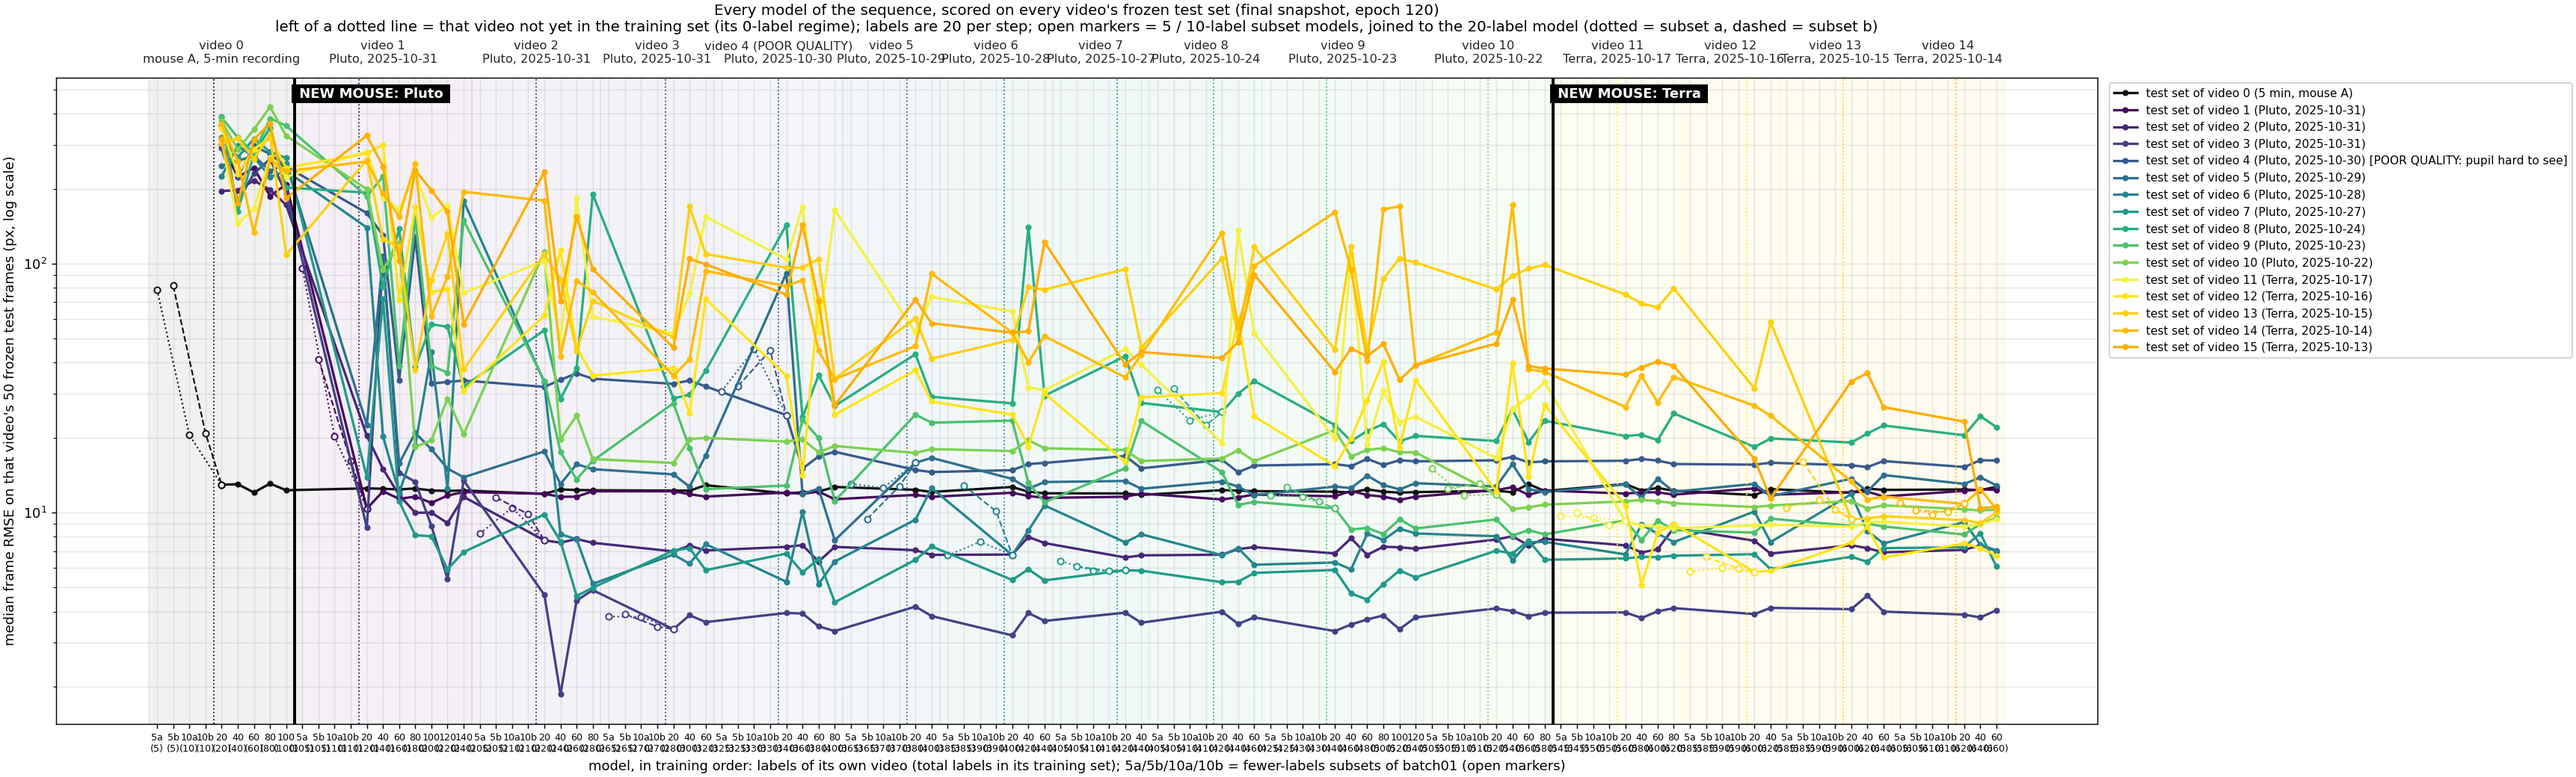
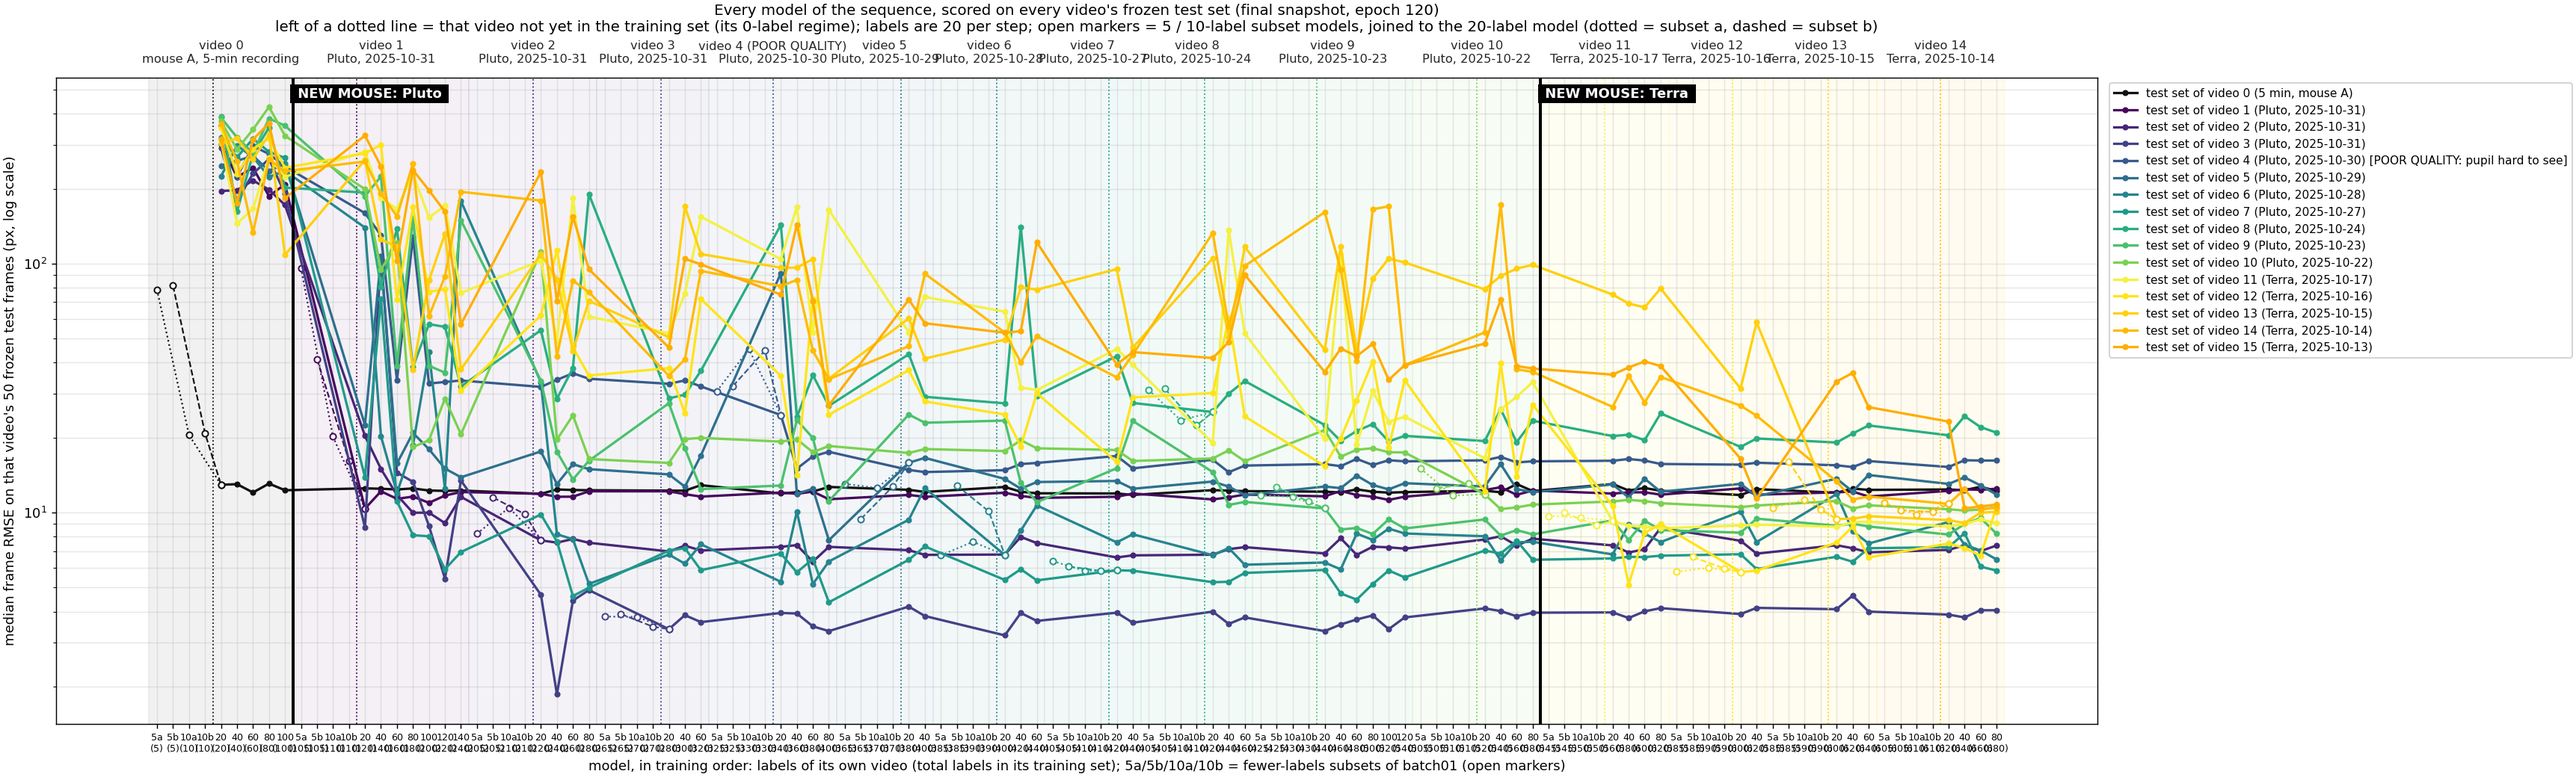
Video 14 step 4 selection recorded (10523 of 57158 flagged, batch 5 sheet); cross-eval of model 1514
Claude-Session: https://claude.ai/code/session_01HbY3eFuxfPQiRo7QFugpjw

diff --git a/README.md b/README.md
@@ -27,7 +27,7 @@ per-frame predictions stay local; git carries code, documentation and audited ag
 | Finished | **video 11** (Terra = mouse C, 2025-10-17, the first video of a new mouse): test50 / val20 / batch01 pre-labeled with the video-10 40-label model (1112) and corrected by the labeler (test50: 249 of 400 points moved), test set frozen; 0 labels (model 1112) = 25.96 px (p90 80.1, 16% of frames > 50 px), 20 labels = 9.24 px (p90 166.4, 20% of frames > 50 px), 40 labels = 8.86 px (p90 17.5, 4% of frames > 50 px, 94% of keypoints with confidence >= 0.6; 4.1% better on the median), 60 labels = 8.77 px (p90 12.9, 2% of frames > 50 px, 97% confidence; 1.0% better than 8.86, a flat step), 80 labels = 8.65 px (p90 13.1, 2% > 50 px, 98% confidence; 1.4% better, a second flat step): the plateau rule fired at 80, finished at **40 labels, 8.86 px** (user decision 2026-10-04). Training set of every step = 540 carried labels of videos 0-10 + this video's labels; shuffles 1211, 1212, ... |
 | Finished | **video 12** (Terra, 2025-10-16, second video of mouse C): test50 / val20 / batch01 pre-labeled with the video-11 40-label model (1212) and corrected by the labeler (test50: 110 of 400 points moved), test set frozen; 0 labels (model 1212) = 5.13 px, 20 labels = 5.77 px, 40 labels = 5.84 px (0% of frames > 50 px at every step): no step improves the 0-label number, the plateau rule fired at 40, finished with the plateau at **0 labels, 5.13 px** (user decision 2026-10-04 21:29); no labels carried |
 | Finished | **video 13** (Terra, 2025-10-15, third video of mouse C): test50 / val20 / batch01 pre-labeled with the video-11 40-label model (1212) and corrected by the labeler (test50: 287 of 400 points moved), test set frozen; 0 labels (model 1212) = 69.13 px (56% of frames > 50 px: the model that fitted video 12 does not fit this day), 20 labels = 9.43 px, 40 labels = 9.44 px, 60 labels = 9.67 px (0% of frames > 50 px from 20 labels on): no step improves on 20 labels, the plateau rule fired at 60; **plateau at 20 labels, 9.43 px** (user decision 2026-10-06), tag `v0.9.15-video13-plateau`; batch01 (20 labels) carried, 600 labels go into video 14. Fewer-labels: 5 labels 10.46 / 16.03 px, 10 labels 11.24 / 10.29 px (first-batch size only, no jump selection afterwards; both above the 20-label 9.43 px). |
-| In progress | **video 14** (Terra, 2025-10-14): test50 / val20 / batch01 extracted and pre-labeled with the video-13 20-label model (1411); corrected by the labeler (test50: 149 of 400 points moved), test set frozen; 0 labels (model 1411) = 13.33 px (p90 170.8, 16% of frames > 50 px); 20 labels (shuffle 1511) = 10.83 px (p90 28.7, 2% of frames > 50 px, 88% of keypoints with confidence >= 0.6; 19% better than the 0-label number); 40 labels (shuffle 1512) = 12.41 px (p90 25.8, 2% > 50 px, 90% confidence; no gain over 10.83, one flat step by the rule); batch 3 selected (10512 of 57158 pool frames flagged, 18.4%) and labeled; 60 labels (shuffle 1513) = 10.30 px (p90 16.1, 2% > 50 px, 94% confidence; 4.9% better than 10.83, an improving step, the flat-step count restarts); batch 4 selected from the 60-label model (10420 of 57158 pool frames flagged, 18.2%) and labeled; 80 labels (shuffle 1514) = 10.45 px (p90 18.1, 2% > 50 px, 92% confidence; no gain over 10.30, one flat step by the rule); batch 5 selected from the 80-label model and being labeled (2026-10-07 11:05). Fewer-labels: 5 labels 10.93 / 10.22 px, 10 labels 9.82 / 10.06 px (first-batch size only, no jump selection afterwards; medians within 10% of the 20-label 10.83 px, subset 5b with 14% of frames > 50 px). Training set of every step = 600 carried labels of videos 0-13 + this video's labels; shuffles 1511, 1512, ... |
+| In progress | **video 14** (Terra, 2025-10-14): test50 / val20 / batch01 extracted and pre-labeled with the video-13 20-label model (1411); corrected by the labeler (test50: 149 of 400 points moved), test set frozen; 0 labels (model 1411) = 13.33 px (p90 170.8, 16% of frames > 50 px); 20 labels (shuffle 1511) = 10.83 px (p90 28.7, 2% of frames > 50 px, 88% of keypoints with confidence >= 0.6; 19% better than the 0-label number); 40 labels (shuffle 1512) = 12.41 px (p90 25.8, 2% > 50 px, 90% confidence; no gain over 10.83, one flat step by the rule); batch 3 selected (10512 of 57158 pool frames flagged, 18.4%) and labeled; 60 labels (shuffle 1513) = 10.30 px (p90 16.1, 2% > 50 px, 94% confidence; 4.9% better than 10.83, an improving step, the flat-step count restarts); batch 4 selected from the 60-label model (10420 of 57158 pool frames flagged, 18.2%) and labeled; 80 labels (shuffle 1514) = 10.45 px (p90 18.1, 2% > 50 px, 92% confidence; no gain over 10.30, one flat step by the rule); batch 5 selected from the 80-label model (10523 of 57158 pool frames flagged, 18.4%) and being labeled (2026-10-07 12:31). Fewer-labels: 5 labels 10.93 / 10.22 px, 10 labels 9.82 / 10.06 px (first-batch size only, no jump selection afterwards; medians within 10% of the 20-label 10.83 px, subset 5b with 14% of frames > 50 px). Training set of every step = 600 carried labels of videos 0-13 + this video's labels; shuffles 1511, 1512, ... |
 | Analysis (2026-10-04) | blink and pupil area on all 12 finished videos (`v2_new_pupil_top_video_scaling/results/blink_and_area/`): four-point area median error 6.6% (three-point 8.3%); closed eye best detected by the mean confidence of the four pupil points (27 of 28 closed frames, 4.1% of open frames flagged; the earlier rule flags 55.7%); area traces still contain tracking jumps not covered by the closure rule. Error and confidence per keypoint (`.../results/keypoint_confidence_error/`): pupil top is the least accurate point (10.9 px median) |
 | Next | Terra units 15-18, one recording day each, newest first |
 

diff --git a/v2_new_pupil_top_video_scaling/14_20251014_Terra_spont_1/results/README.md b/v2_new_pupil_top_video_scaling/14_20251014_Terra_spont_1/results/README.md
@@ -14,7 +14,7 @@ contributed none; 600 in total) + this video's labels; shuffles 1511, 1512, ...
 | 20 (shuffle 1511) | 10.83 px | 28.7 | 2% | 88% | 14576 of 57158 (25.5%) |
 | 40 (shuffle 1512) | 12.41 px | 25.8 | 2% | 90% | 10512 of 57158 (18.4%) |
 | 60 (shuffle 1513) | 10.30 px | 16.1 | 2% | 94% | 10420 of 57158 (18.2%) |
-| 80 (shuffle 1514) | 10.45 px | 18.1 | 2% | 92% | pending |
+| 80 (shuffle 1514) | 10.45 px | 18.1 | 2% | 92% | 10523 of 57158 (18.4%) |
 
 The other Terra models give 11.3-35.4 px on this test set (video-13 40- and 60-label models 11.28 / 11.59 px, video-12
 models 24.5-26.9 px, video-11 models 26.6-35.4 px; `../results/cross_video_matrix.csv`).
